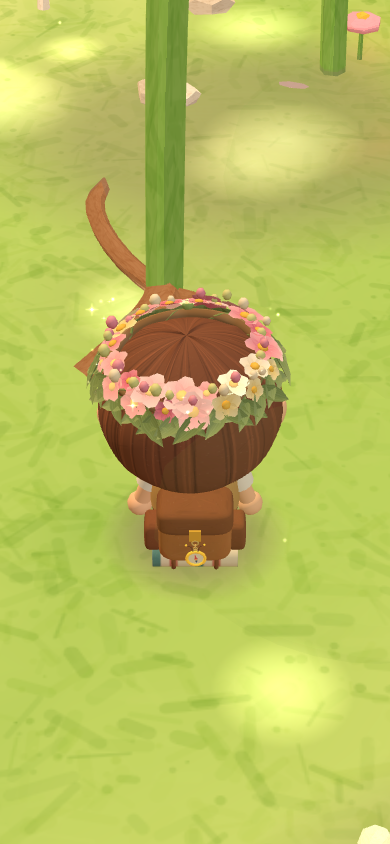
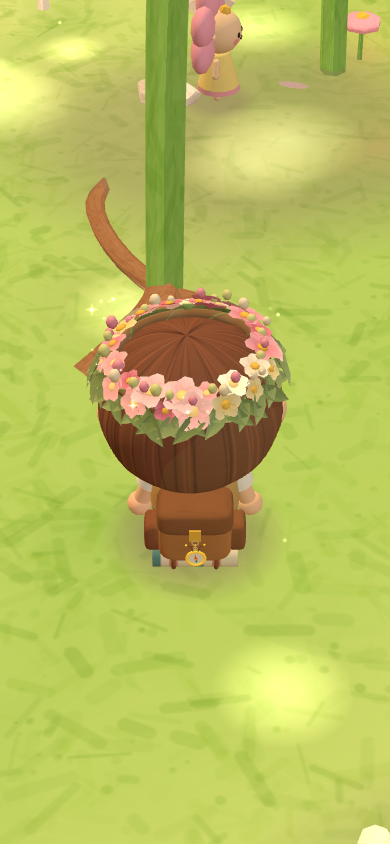
요정의 숲 STAGE 01을 개미굴 마을처럼: 주민 요정 여덟, 짧게 쪼갠 진행, 이슬방울 돌발, 큰 보상 카드, 통과 결과창, 비밀 둘
- 꽃·바람·꼬마 버섯 주민 요정(villager) 여덟: 걷기·수다·물가 구경, 모두 한두 마디, 주민 하나 그리기 1번
- 주민 둘과 이야기(0/2) → 사공 → 클로버 → 큰 이슬방울이 기둥에 부딪혀 흩어짐 → 모으기(0/5) → 이슬배
- 우산은 가운데 큰 보상 카드, 활공 뒤 '이슬방울 선착장 통과!' 결과창(발견한 비밀 n/2)
- 숨겨진 비밀 둘째: 낮잠 무당벌레, 이야기 소개 카메라가 하늘에서 마을로
- 로딩 화면은 그리기가 멈춰 있어도 1.5초 뒤 치움, 목표 높이 값 반영

Changed region(s): [[0.4923, 0.0, 0.6462, 0.1232]]

diff --git a/js/zones/fairy/fairies.js b/js/zones/fairy/fairies.js
@@ -8,7 +8,7 @@
    얼굴 앞은 +z. 발바닥이 y=0. 그림자는 휴대폰 단계에서 구역이 shadowBlob을 단다. */
 import * as THREE from 'three';
 import {mergeGeometries} from 'three/addons/utils/BufferGeometryUtils.js';
-import {M,PI,lathe} from '../../01-textures.js';
+import {M,PI,lathe,lin,pencil} from '../../01-textures.js';
 import {toon} from './paint.js';
 const SKIN='#f4cfa6',CHEEK='#f39a9a',INK='#4a2a24';
 const mats={};const mat=(c,k='suede',o)=>{o=Object.assign({flat:false},o);const key=c+k+JSON.stringify(o);return mats[key]||(mats[key]=M(c,k,o));}; // 부드러운 음영(원더룹과 같게)
@@ -136,6 +136,54 @@ function dandelionPuff({stem=1.75,reach=0,R=.44}={}){const g=new THREE.Group();g
     const b=1+Math.sin(t*3.2)*.025*k;layers[0].scale.setScalar(b);top.rotation.z=Math.sin(t*1.3)*.06*k;};
   return g;}
 /* 구역을 떠날 때: 요정 재질·갓 무늬 캐시를 놓는다(다음 구역에서 다시 만들면 같은 그림) */
+/* 마을 주민 요정(2026-11-03 — 개미굴 마을처럼 북적이게): 꽃 요정·바람 요정·작은 버섯 요정. 기준 그림 fairy-flower·fairy-wind·fairy-mushroom의 생김새를 따르되 색만 여러 가지.
+   재질은 흰 천 결 그림 한 장에 색만 곱한 것(vmat)이라 bakeFairy(into: body)로 주민 하나가 그리기 1번(휴대폰 스테이지 예산).
+   villager(kind, {petal, dress, hair, cap}) → {root, body, tick(dt, t, moving)} — 걸을 때 통통 튀고 팔을 흔든다. 키 약 0.75(원더룹보다 작게), 얼굴 앞 +z, 발바닥 y=0 */
+let vTex=null;const vmats={};
+function vmat(c){if(!vTex)vTex=pencil('#ffffff','suede',{rep:[2,2]});return vmats[c]||(vmats[c]=new THREE.MeshStandardMaterial({map:vTex,color:new THREE.Color(c),roughness:.95,metalness:0}));}
+function vface(head,r){const ink=vmat(INK),pink=vmat(CHEEK);const onFace=(x,y,out=0)=>{const z=Math.sqrt(Math.max(0,r*r-x*x-y*y));return new THREE.Vector3(x,y,z).normalize().multiplyScalar(r+out);};
+  const stick=(m,p)=>{m.position.copy(p);m.lookAt(p.clone().multiplyScalar(2));head.add(m);m.castShadow=false;return m;};
+  [-1,1].forEach(s=>{const e=stick(new THREE.Mesh(new THREE.SphereGeometry(r*.12,10,8),ink),onFace(s*r*.34,r*.02,-r*.03));e.scale.set(.9,1.1,.55);});
+  [-1,1].forEach(s=>stick(new THREE.Mesh(new THREE.CircleGeometry(r*.16,14),pink),onFace(s*r*.55,-r*.2,r*.035)));
+  const m=stick(new THREE.Mesh(new THREE.TorusGeometry(r*.13,r*.032,6,14,PI),ink),onFace(0,-r*.17,0));m.rotateZ(PI);}
+function villager(kind,o={}){const root=new THREE.Group();root.name='villager:'+kind;const body=new THREE.Group();root.add(body);
+  const vm=(g,c,par=body,x=0,y=0,z=0)=>{const m=new THREE.Mesh(g,vmat(c));m.position.set(x,y,z);m.castShadow=true;m.receiveShadow=true;par.add(m);return m;};
+  const limbs=[],legs=[];const lim=(x,y,len,rad,c,arr)=>{const piv=new THREE.Group();piv.position.set(x,y,0);body.add(piv);vm(new THREE.CapsuleGeometry(rad,len,3,6).translate(0,-len/2-rad*.5,0),c,piv);arr.push(piv);return piv;};
+  let head,r=.17;
+  if(kind==='mushroom'){const cap=o.cap||'#e9824a';
+    vm(lathe([[0,0],[.15,.01],[.21,.07],[.23,.17],[.21,.27],[.15,.33],[0,.35]].map(q=>new THREE.Vector2(q[0],q[1])),14),'#f2dfc0',body,0,.04,0);
+    head=new THREE.Group();head.position.set(0,.24,0);body.add(head);r=.22;vface(head,r);
+    const c=vm(lathe([[0,.22],[.11,.2],[.21,.14],[.29,.06],[.31,0]].map(q=>new THREE.Vector2(q[0],q[1])),16),cap,body,0,.3,0);c.material=vmat(cap);
+    [[0,.47,.12],[.12,.44,.06],[-.1,.45,.08]].forEach(([x,y,z])=>{const d=vm(new THREE.SphereGeometry(.045,8,6),'#fbf1de',body,x,y,z);d.scale.y=.4;});
+    [-1,1].forEach(s=>{const a=lim(s*.2,.16,.05,.035,'#f2dfc0',limbs);a.rotation.z=s*.7;});[-1,1].forEach(s=>lim(s*.07,.08,.02,.035,'#f2dfc0',legs));}
+  else{const dress=o.dress||(kind==='wind'?'#a9d8b0':'#f6dc84');
+    vm(lathe([[0,0],[.16,0],[.16,.03],[.12,.18],[.09,.29],[.05,.31],[0,.31]].map(q=>new THREE.Vector2(q[0],q[1])),12),dress,body,0,.13,0);
+    if(kind==='flower')vm(new THREE.CylinderGeometry(.162,.165,.04,12,1,true),o.hem||'#f2a6b4',body,0,.15,0);
+    [-1,1].forEach(s=>lim(s*.055,.15,.06,.03,SKIN,legs));
+    head=new THREE.Group();head.position.set(0,.6,0);body.add(head);vm(new THREE.SphereGeometry(r,16,12),SKIN,head);vface(head,r);
+    [-1,1].forEach(s=>{const e=vm(new THREE.ConeGeometry(r*.24,r*.6,5).translate(0,r*.3,0),SKIN,head,s*r*.86,r*.08,-r*.04);e.rotation.z=-s*1.2;e.scale.z=.5;});
+    [-1,1].forEach(s=>{const a=lim(s*.1,.4,.1,.028,SKIN,limbs);a.rotation.z=s*.4;});
+    if(kind==='flower'){const pc=o.petal||'#f4a7b9';
+      [-2.05,-1.1,0,1.1,2.05].forEach((a,i)=>{const p=vm(new THREE.SphereGeometry(.16,10,8),pc,head,Math.sin(a)*r*1.3,Math.cos(a)*r*1.15+.02,-r*.5);p.scale.set(1,1.2,.55);p.rotation.z=-a;}); // 기준 그림처럼 머리보다 큰 꽃잎 다섯
+      const g=vm(new THREE.IcosahedronGeometry(.05,0),'#f2c14e',head,0,r*.95,r*.25);}
+    else{const hc=o.hair||'#8a5a3c';const h=vm(new THREE.SphereGeometry(r*1.05,16,10,0,PI*2,0,PI*.55),hc,head);h.rotation.x=-.5;
+      [-1,1].forEach(s=>{const c=vm(new THREE.TorusGeometry(.055,.018,6,12,PI*1.5),hc,head,s*.06,r*1.05,-.02);c.rotation.set(0,s*.3,s>0?-.3:PI+.3);});
+      [-1,1].forEach(s=>{const w=vm(new THREE.SphereGeometry(.16,12,8),o.wing||'#bcd8f2',body,s*.15,.48,-.13);w.scale.set(.75,1,.12);w.rotation.set(.1,s*.5,s*.35);});}}
+  root.traverse(m=>{if(m.isMesh)m.castShadow=true;});
+  let ph=(root.id*1.37)%6; // 난수 대신 물체 번호로(촬영 모드에서도 같은 그림)
+  return {root,body,head,kind,tick(dt,t,moving=false){ph+=dt*(moving?9:2);const hop=moving?Math.abs(Math.sin(ph))*.05:Math.abs(Math.sin(ph*.5))*.008;body.position.y=hop;
+    if(kind==='mushroom')body.rotation.z=Math.sin(ph)*(moving?.12:.04);else head.rotation.z=Math.sin(t*.9+root.id)*.06;
+    limbs.forEach((a,i)=>{a.rotation.x=moving?Math.sin(ph+(i?PI:0))*.6:Math.sin(t*1.3+i)*.08;});legs.forEach((l,i)=>{l.rotation.x=moving?Math.sin(ph+(i?0:PI))*.5:0;});}};}
+/* 무당벌레(숨겨진 비밀 둘째): 클로버 그늘에서 낮잠 — 빨간 등딱지(검은 점 다섯)·검은 머리·감은 눈. 길이 약 0.3m */
+function ladybug(){const root=new THREE.Group();root.name='fairy:ladybug';const body=new THREE.Group();root.add(body);
+  const red=mat('#e2493c'),blk=mat('#3a2a2a'),wh=mat('#fffaf0','plain');
+  const shell=mesh(new THREE.SphereGeometry(.13,16,10,0,PI*2,0,PI/2),red,body,0,.03,0);shell.scale.set(1,.85,1.2);
+  mesh(new THREE.CylinderGeometry(.115,.115,.03,16),blk,body,0,.03,0).scale.set(1,1,1.2);
+  [[.06,.1,.05],[-.06,.1,.05],[.07,.08,-.08],[-.07,.08,-.08],[0,.115,-.02]].forEach(([x,y,z])=>{const d=mesh(new THREE.SphereGeometry(.025,8,6),blk,body,x,y,z);d.scale.y=.5;});
+  const head=mesh(new THREE.SphereGeometry(.05,12,8),blk,body,0,.05,.15);
+  [-1,1].forEach(s=>{const e=mesh(new THREE.TorusGeometry(.012,.004,4,8,PI),wh,head,s*.025,.02,.05);e.rotation.z=PI;});
+  root.traverse(o=>{if(o.isMesh)o.castShadow=false;});
+  return {root,tick(dt,t){body.scale.y=1+Math.sin(t*1.6)*.03;}};}
 /* 아기 소금쟁이(숨겨진 비밀, 2026-11-03): 물 위에 서는 가늘고 긴 다리 여섯, 길쭉한 갈색 몸, 큰 점 눈·볼터치. 길이 약 0.5m(원더룹보다 훨씬 작다).
    strider() → {root, tick(dt,t)} — 앞다리로 물을 톡톡(인사), 몸이 살짝 미끄러졌다 돌아온다. 발 끝은 y=0(물 면) */
 function strider(){const root=new THREE.Group();root.name='fairy:strider';const body=new THREE.Group();root.add(body);body.position.y=.13;
@@ -155,5 +203,5 @@ function strider(){const root=new THREE.Group();root.name='fairy:strider';const 
   root.traverse(o=>{if(o.isMesh)o.castShadow=false;});
   return {root,tick(dt,t){const k=Math.sin(t*5);legs.forEach(l=>{if(l.i===0)l.piv.rotation.x=-Math.max(0,k)*.35*(l.sx>0?1:.4);});body.position.y=.13+Math.sin(t*2.4)*.006;
     root.position.x+=Math.sin(t*.9)*.0015;body.rotation.y=Math.sin(t*.7)*.12;}};}
-function clearFairyCache(){for(const k in mats){mats[k].dispose();delete mats[k];}if(capTex){capTex.dispose();capTex=null;}if(gillTex){gillTex.dispose();gillTex=null;}}
-export {bakeFairy,clearFairyCache,dandelionPuff,dewBoat,fairy,leafBoat,strider};
+function clearFairyCache(){for(const k in vmats){vmats[k].dispose();delete vmats[k];}if(vTex){vTex.dispose();vTex=null;}for(const k in mats){mats[k].dispose();delete mats[k];}if(capTex){capTex.dispose();capTex=null;}if(gillTex){gillTex.dispose();gillTex=null;}}
+export {bakeFairy,clearFairyCache,dandelionPuff,dewBoat,fairy,ladybug,leafBoat,strider,villager};

diff --git a/index.html b/index.html
@@ -118,65 +118,65 @@ body.wl-world .bar .hint:not(#stats){display:none} /* 세계 구역에서는 아
 </div>
 
 <script id="wl-vercheck">fetch('version.json?t='+Date.now(),{cache:'no-store'}).then(r=>r.json()).then(j=>{if(j.v&&j.v!==window.WL_V){const u=new URL(location.href);if(u.searchParams.get('_v')!==j.v){u.searchParams.set('_v',j.v);location.replace(u);}}}).catch(()=>{});</script>
-<script>window.WL_V='375debfd1a';</script>
+<script>window.WL_V='9e9c88d92c';</script>
 <script type="importmap">
 {
   "imports": {
     "three": "https://cdn.jsdelivr.net/npm/three@0.186.1/build/three.module.js",
     "three/addons/": "https://cdn.jsdelivr.net/npm/three@0.186.1/examples/jsm/",
-    "./js/01-textures.js": "./js/01-textures.js?v=375debfd1a",
-    "./js/02-zone.js": "./js/02-zone.js?v=375debfd1a",
-    "./js/03-scene.js": "./js/03-scene.js?v=375debfd1a",
-    "./js/04-character.js": "./js/04-character.js?v=375debfd1a",
-    "./js/05-hair-headwear.js": "./js/05-hair-headwear.js?v=375debfd1a",
-    "./js/06-outfits.js": "./js/06-outfits.js?v=375debfd1a",
-    "./js/07-actions.js": "./js/07-actions.js?v=375debfd1a",
-    "./js/08-main.js": "./js/08-main.js?v=375debfd1a",
-    "./js/09-capture.js": "./js/09-capture.js?v=375debfd1a",
-    "./js/game/bend.js": "./js/game/bend.js?v=375debfd1a",
-    "./js/game/codex.js": "./js/game/codex.js?v=375debfd1a",
-    "./js/game/companion.js": "./js/game/companion.js?v=375debfd1a",
-    "./js/game/controls.js": "./js/game/controls.js?v=375debfd1a",
-    "./js/game/core.js": "./js/game/core.js?v=375debfd1a",
-    "./js/game/course.js": "./js/game/course.js?v=375debfd1a",
-    "./js/game/dialog.js": "./js/game/dialog.js?v=375debfd1a",
-    "./js/game/events.js": "./js/game/events.js?v=375debfd1a",
-    "./js/game/felt.js": "./js/game/felt.js?v=375debfd1a",
-    "./js/game/front.js": "./js/game/front.js?v=375debfd1a",
-    "./js/game/fx.js": "./js/game/fx.js?v=375debfd1a",
-    "./js/game/goal.js": "./js/game/goal.js?v=375debfd1a",
-    "./js/game/hud.js": "./js/game/hud.js?v=375debfd1a",
-    "./js/game/index.js": "./js/game/index.js?v=375debfd1a",
-    "./js/game/interact.js": "./js/game/interact.js?v=375debfd1a",
-    "./js/game/items.js": "./js/game/items.js?v=375debfd1a",
-    "./js/game/lamps.js": "./js/game/lamps.js?v=375debfd1a",
-    "./js/game/music.js": "./js/game/music.js?v=375debfd1a",
-    "./js/game/occlude.js": "./js/game/occlude.js?v=375debfd1a",
-    "./js/game/profile.js": "./js/game/profile.js?v=375debfd1a",
-    "./js/game/ride.js": "./js/game/ride.js?v=375debfd1a",
-    "./js/game/sfx-ant.js": "./js/game/sfx-ant.js?v=375debfd1a",
-    "./js/game/sky.js": "./js/game/sky.js?v=375debfd1a",
-    "./js/game/sound.js": "./js/game/sound.js?v=375debfd1a",
-    "./js/game/state.js": "./js/game/state.js?v=375debfd1a",
-    "./js/game/synth.js": "./js/game/synth.js?v=375debfd1a",
-    "./js/game/title.js": "./js/game/title.js?v=375debfd1a",
-    "./js/game/ui.js": "./js/game/ui.js?v=375debfd1a",
-    "./js/hoods/crown.js": "./js/hoods/crown.js?v=375debfd1a",
-    "./js/zones/basecamp.js": "./js/zones/basecamp.js?v=375debfd1a",
-    "./js/zones/fairy/dock.js": "./js/zones/fairy/dock.js?v=375debfd1a",
-    "./js/zones/fairy/fairies.js": "./js/zones/fairy/fairies.js?v=375debfd1a",
-    "./js/zones/fairy/forest.js": "./js/zones/fairy/forest.js?v=375debfd1a",
-    "./js/zones/fairy/music.js": "./js/zones/fairy/music.js?v=375debfd1a",
-    "./js/zones/fairy/paint.js": "./js/zones/fairy/paint.js?v=375debfd1a",
-    "./js/zones/fairy/world.js": "./js/zones/fairy/world.js?v=375debfd1a",
-    "./js/zones/sample-fx.js": "./js/zones/sample-fx.js?v=375debfd1a",
-    "./js/zones/sample-indoor.js": "./js/zones/sample-indoor.js?v=375debfd1a",
-    "./js/zones/sample-outdoor.js": "./js/zones/sample-outdoor.js?v=375debfd1a"
+    "./js/01-textures.js": "./js/01-textures.js?v=9e9c88d92c",
+    "./js/02-zone.js": "./js/02-zone.js?v=9e9c88d92c",
+    "./js/03-scene.js": "./js/03-scene.js?v=9e9c88d92c",
+    "./js/04-character.js": "./js/04-character.js?v=9e9c88d92c",
+    "./js/05-hair-headwear.js": "./js/05-hair-headwear.js?v=9e9c88d92c",
+    "./js/06-outfits.js": "./js/06-outfits.js?v=9e9c88d92c",
+    "./js/07-actions.js": "./js/07-actions.js?v=9e9c88d92c",
+    "./js/08-main.js": "./js/08-main.js?v=9e9c88d92c",
+    "./js/09-capture.js": "./js/09-capture.js?v=9e9c88d92c",
+    "./js/game/bend.js": "./js/game/bend.js?v=9e9c88d92c",
+    "./js/game/codex.js": "./js/game/codex.js?v=9e9c88d92c",
+    "./js/game/companion.js": "./js/game/companion.js?v=9e9c88d92c",
+    "./js/game/controls.js": "./js/game/controls.js?v=9e9c88d92c",
+    "./js/game/core.js": "./js/game/core.js?v=9e9c88d92c",
+    "./js/game/course.js": "./js/game/course.js?v=9e9c88d92c",
+    "./js/game/dialog.js": "./js/game/dialog.js?v=9e9c88d92c",
+    "./js/game/events.js": "./js/game/events.js?v=9e9c88d92c",
+    "./js/game/felt.js": "./js/game/felt.js?v=9e9c88d92c",
+    "./js/game/front.js": "./js/game/front.js?v=9e9c88d92c",
+    "./js/game/fx.js": "./js/game/fx.js?v=9e9c88d92c",
+    "./js/game/goal.js": "./js/game/goal.js?v=9e9c88d92c",
+    "./js/game/hud.js": "./js/game/hud.js?v=9e9c88d92c",
+    "./js/game/index.js": "./js/game/index.js?v=9e9c88d92c",
+    "./js/game/interact.js": "./js/game/interact.js?v=9e9c88d92c",
+    "./js/game/items.js": "./js/game/items.js?v=9e9c88d92c",
+    "./js/game/lamps.js": "./js/game/lamps.js?v=9e9c88d92c",
+    "./js/game/music.js": "./js/game/music.js?v=9e9c88d92c",
+    "./js/game/occlude.js": "./js/game/occlude.js?v=9e9c88d92c",
+    "./js/game/profile.js": "./js/game/profile.js?v=9e9c88d92c",
+    "./js/game/ride.js": "./js/game/ride.js?v=9e9c88d92c",
+    "./js/game/sfx-ant.js": "./js/game/sfx-ant.js?v=9e9c88d92c",
+    "./js/game/sky.js": "./js/game/sky.js?v=9e9c88d92c",
+    "./js/game/sound.js": "./js/game/sound.js?v=9e9c88d92c",
+    "./js/game/state.js": "./js/game/state.js?v=9e9c88d92c",
+    "./js/game/synth.js": "./js/game/synth.js?v=9e9c88d92c",
+    "./js/game/title.js": "./js/game/title.js?v=9e9c88d92c",
+    "./js/game/ui.js": "./js/game/ui.js?v=9e9c88d92c",
+    "./js/hoods/crown.js": "./js/hoods/crown.js?v=9e9c88d92c",
+    "./js/zones/basecamp.js": "./js/zones/basecamp.js?v=9e9c88d92c",
+    "./js/zones/fairy/dock.js": "./js/zones/fairy/dock.js?v=9e9c88d92c",
+    "./js/zones/fairy/fairies.js": "./js/zones/fairy/fairies.js?v=9e9c88d92c",
+    "./js/zones/fairy/forest.js": "./js/zones/fairy/forest.js?v=9e9c88d92c",
+    "./js/zones/fairy/music.js": "./js/zones/fairy/music.js?v=9e9c88d92c",
+    "./js/zones/fairy/paint.js": "./js/zones/fairy/paint.js?v=9e9c88d92c",
+    "./js/zones/fairy/world.js": "./js/zones/fairy/world.js?v=9e9c88d92c",
+    "./js/zones/sample-fx.js": "./js/zones/sample-fx.js?v=9e9c88d92c",
+    "./js/zones/sample-indoor.js": "./js/zones/sample-indoor.js?v=9e9c88d92c",
+    "./js/zones/sample-outdoor.js": "./js/zones/sample-outdoor.js?v=9e9c88d92c"
   }
 }
 </script>
 <!-- 08-main.js가 01~07을 번호 순서대로 import한다. 버전(?v=)과 위 importmap의 js 줄은 tools/stamp.py가 쓴다 -->
-<script type="module" src="js/08-main.js?v=375debfd1a"></script>
+<script type="module" src="js/08-main.js?v=9e9c88d92c"></script>
 
 </body>
 </html>

diff --git a/js/game/front.js b/js/game/front.js
@@ -222,7 +222,12 @@ async function begin(fr){if(busy)return;busy=true;sfx('click');
   if(!store.get(HELP_KEY)){store.set(HELP_KEY,'1');showHelp(true);}} // 처음 시작할 때 한 번 조작법(닫으면 나침반 연출·버섯 요정 순서로 이어진다)
 /* ---------- 이야기 소개(모험 떠나기 → 탐방하는 곳 소개 몇 장 → 게임) ---------- */
 function openStory(){const L=(zone().front&&zone().front.story)||[];if(!L.length){begin(fresh);return;}
-  storyOn=true;let i=0;el.classList.remove('on');orbit();
+  storyOn=true;let i=0;el.classList.remove('on');
+  // 카메라: 구역 정보 storyView:[{from,at}…](장마다 한 자리)가 있으면 개미굴처럼 하늘에서 마을로 천천히 내려오며 장마다 그 자리로, 없으면 첫 화면처럼 돌아보기
+  const SV=zone().storyView;if(SV&&SV.length){const c={from:[...SV[0].from],at:[...SV[0].at]};let last=performance.now();
+    VIEW.hold(()=>{const now=performance.now(),k=1-Math.exp(-Math.min(.1,(now-last)/1000)*.9);last=now;const T=SV[Math.min(i,SV.length-1)];
+      for(let j=0;j<3;j++){c.from[j]+=(T.from[j]-c.from[j])*k;c.at[j]+=(T.at[j]-c.at[j])*k;}return {from:[...c.from],at:[...c.at]};});}
+  else orbit();
   const draw=()=>{story.innerHTML='';const c=document.createElement('div');c.className='scard';const t=document.createElement('p');t.className='stext';t.textContent=L[i];
     const bs=document.createElement('div');bs.className='sbtns';const last=i===L.length-1;
     bs.append(pbtn('skip','건너뛰기',()=>end()),pbtn('next',last?'모험 시작!':'다음',()=>{sfx('blip');if(last)end();else{i++;draw();}}));

diff --git a/js/08-main.js b/js/08-main.js
@@ -70,7 +70,7 @@ GAME.initGame({scene,camera,renderer,WL,ground:(x,z)=>floorAt(x,z,.5)});window.w
 GAME.front.applyLook(WL.userData);
 // 첫 화면(game/front): 세계 front가 있는 구역이면 그 위에 타이틀 — '처음부터'는 진행을 지우고 첫 구역을 다시 만든다
 GAME.startFront({ctx:{scene,camera,renderer,WL},zone:()=>zone.cur,restart:()=>goZone(zone.cur.root.name.replace(/^zone:/,''))});
-{const b=document.getElementById('wlBoot');if(b){if(new URLSearchParams(location.search).has('shot'))b.remove();else requestAnimationFrame(()=>requestAnimationFrame(()=>{b.classList.add('gone');setTimeout(()=>b.remove(),600);}));}} // 첫 로딩 화면: 첫 구역을 그린 뒤 서서히
+{const b=document.getElementById('wlBoot');if(b){if(new URLSearchParams(location.search).has('shot'))b.remove();else{let done=false;const go=()=>{if(done)return;done=true;b.classList.add('gone');setTimeout(()=>b.remove(),600);};requestAnimationFrame(()=>requestAnimationFrame(go));setTimeout(go,1500);}}} // 화면이 가려져 그리기가 멈춰 있어도 1.5초 뒤엔 치운다 // 첫 로딩 화면: 첫 구역을 그린 뒤 서서히
 window.wlZone={go:goZone,get cur(){return zone.cur;},get area(){return zone.area;},list:Object.keys(ZONES),blocked,overlap}; // blocked·overlap: 끼임 자동 시험(tools/stuck-test.js)
 // 주소에 ?zonetest 를 붙이면 구역을 차례로 바꾸는 단추가 나온다 (견본 구역 시험용)
 if(new URLSearchParams(location.search).has('zonetest')){const b=document.createElement('button');b.id='zoneBtn';b.textContent='구역: '+zone.cur.name;

diff --git a/js/game/profile.js b/js/game/profile.js
@@ -39,7 +39,7 @@ function portrait(root,{side=.42,lift=.12,w=512,h=512}={}){if(!ctx||!ctx.rendere
   return url;}
 function meet(id,root){const c=CARDS[id];if(!c||seen(id))return Promise.resolve(false);setFlag('meet:'+W+':'+id,true);
   const img=c.img||(root?portrait(root,c.portrait):null);if(img)PICS[id]=img;
-  const ids=Object.keys(CARDS),n=ids.filter(seen).length; // 친구 수(개미굴 '자연 도감 8/11'처럼) — 탐험 가방의 '만난 친구'와 같은 수
+  const ids=Object.keys(CARDS).filter(k=>!CARDS[k].secret),n=ids.filter(seen).length; // 숨겨진 비밀 친구는 빼고(비밀이 몇인지 미리 알리지 않게) // 친구 수(개미굴 '자연 도감 8/11'처럼) — 탐험 가방의 '만난 친구'와 같은 수
   return profileCard({name:c.name,intro:c.intro,likes:c.likes,quote:c.quote,img,bg:c.bg,kicker:c.secret?'숨겨진 친구':'새 친구',count:`만난 친구 ${n}/${ids.length}`,button:'가방에 넣기'}).then(()=>true);}
 /* 탐험 가방(game/front)이 그림을 다시 쓸 수 있게: 처음 만날 때 찍은 초상은 기억해 둔다 */
 /* 비밀 장면처럼 카드 없이 '만났다'만 적을 때(숨겨진 비밀 카드가 대신 뜬다): 기록 + 초상을 찍어 돌려준다(탐험 가방 그림) */

diff --git a/js/game/goal.js b/js/game/goal.js
@@ -47,7 +47,7 @@ function setArrow(ang){const q=document.getElementById('wlQuest');if(!q)return;i
   if(!arrow){arrow=document.createElement('span');arrow.className='wl-arrow';arrow.setAttribute('aria-hidden','true');arrow.textContent='➜';}
   if(arrow.parentNode!==q&&q.textContent)q.prepend(arrow);arrow.style.transform=`rotate(${ang}rad)`;}
 function tickGoal(dt){if(!G||!cur)return;const P=where(),W=ctx.WL;if(!P||!W||!hintsVisible()){G.visible=false;setArrow(null);return;}G.visible=true;t0+=dt;
-  const gy=P.y??(ctx.ground?ctx.ground(P.x,P.z):0);beam.position.set(P.x,gy,P.z);tag.position.set(P.x,gy+(cur.h||2.7)+Math.sin(t0*3)*.08,P.z);
+  const gy=P.y??cur.y??(ctx.ground?ctx.ground(P.x,P.z):0);beam.position.set(P.x,gy,P.z);tag.position.set(P.x,gy+(cur.h||2.7)+Math.sin(t0*3)*.08,P.z);
   // 동그라미 길: 원더룹 앞 0.9m부터 목표 쪽으로 GAP마다, 목표 1.1m 앞까지(가까운 N개만)
   const w=W.position,dx=P.x-w.x,dz=P.z-w.z,L=Math.hypot(dx,dz),ux=dx/(L||1),uz=dz/(L||1);let n=0;
   for(let i=0;i<N;i++){const d=.9+i*GAP;if(d>L-1.1)break;const x=w.x+ux*d,z=w.z+uz*d,y=Math.max(ctx.ground?ctx.ground(x,z):0,-.05)+.03;

diff --git a/CLAUDE.md b/CLAUDE.md
@@ -96,6 +96,9 @@
   - **목표 안내** (`js/game/goal.js`, 개미굴 lampMark·냄새 길): `G.goal.set({at, y, label, h})` — 빛 기둥 + 바닥 고리, 기둥 위 이름표 + 노란 세모, 원더룹 발밑부터 목표 쪽 청록 동그라미 길(가까운 8개), 할 일 안내 앞 ➜ 화살표(카메라 기준). 그리기 3회, 안내 표시(영상에 안 나옴). 선착장은 단계마다 사공 → 가까운 클로버 → 이슬배 → 높은 바위.
   - **캐릭터 소개 카드**는 개미굴 '새 도감 카드' 모양(가운데, 뒤 어둡게, 동그라미 그림·이름·소개·좋아하는 것·한마디·'만난 친구 n/m'·'가방에 넣기' 단추로 닫힘 — 촬영 모드만 저절로).
   - **숨겨진 비밀**: 선착장 서쪽 강가 연잎 그늘의 아기 소금쟁이(`fairies.js strider`) — 6.5m 안이면 위에 금빛 ✦ 반짝임, 물가 1.7m 안이면 금빛 비밀 카드(둘레 별 다섯 반짝임·카드 빛 숨쉼), `profile.found`로 가방에.
+  - **마을 주민 요정** (2026-11-03, 개미굴 마을처럼 북적이게 — `fairies.js villager(kind,{petal,dress,hair,cap})` 꽃·바람·꼬마 버섯, dock.js `VILL`): 여덟(강 이쪽 여섯·건너편 둘). 걷기(a↔b 오가며 끝에서 쉼)·수다(마주 보기)·물가 구경, 원더룹이 2m 안이면 멈춰 본다, 모두 한두 마디 대사("…" 말풍선). 흰 천 결 한 장 + 색(vmat) → `bakeFairy(into:body)`로 주민 하나 그리기 1번, 휴대폰은 그림자 무리 하나·카메라 13m 밖은 숨김. 강 이쪽 주민 둘과 이야기하면(0/2) '사공 요정에게 가 봐요'.
+  - **STAGE 01 진행** (개미굴 광장처럼 짧게): 주민 둘과 이야기(0/2) → 사공 → 클로버 셋 → 돌발: 굴러온 큰 이슬방울이 선착장 기둥에 부딪혀 작은 방울 다섯으로 흩어짐 → 모으기(0/5, 0.9m 안이면 저절로 주워져 배로 포물선) → 이슬배 → 우산(가운데 큰 보상 카드 '사공 요정의 선물' + 반짝임) → 바위에서 활공 → 완료 배지 → 결과창 '이슬방울 선착장 통과!'(한 줄 정리·✦ 발견한 비밀 n/2·계속 둘러보기). 숨겨진 비밀 둘(아기 소금쟁이·낮잠 무당벌레). 이야기 소개 카메라는 구역 정보 `storyView`(하늘 → 마을 → 선착장).
+  - 휴대폰 그리기 횟수(같은 방법으로 비교 — 촬영 모드 14자리 순간 이동 평균): 오늘 전 64.5 → 70.6(주민 약 3·목표 안내 약 3 더함).
   - **걷기 빠르기** (07 `DRV`): 개미굴 영상만큼 걷기 3.4(달리기·대쉬는 같은 비율), 발걸음 16. 기준·동작 촬영(`?shot`, 영상 캡처 빼고)은 예전 1.5 그대로.
   - **스테이지 완료 배지** (`ui.stageBadge({img, stage, next, box, medal, ar})`, 세계 `badge` — 요정의 숲 `FAIRY_BADGE`, `assets/ui/fairy/stage-badge.webp`): 크림색 칸에 "<stage> 탐험 완료!"(Jua·#4a2a2a)와 "다음 목적지: <next>"(Gowun Dodum·연한 갈색), 칸 폭에 맞게 글자를 저절로 줄임. 통통 튀며 나타나고 꽃 메달이 커졌다 돌아오고 반짝이가 흩어짐, success 소리, 3.6초 뒤 0.45초에 걸쳐 사라짐. 카드 자리를 같이 쓰고 막지 않음, 시점 기록 who '완료'. 네 스테이지 모두 이름·다음 목적지만 넘긴다.
 - **펠트 스티커 UI 한 벌** (엔진 공통 `js/game/felt.js` 맨 위 주석, 2026-11-03 — 시안 claude.ai "요정의 숲 손글씨 UI 시안", 그림 파일 없이 CSS):
